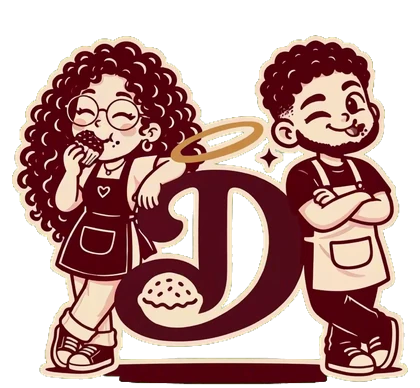
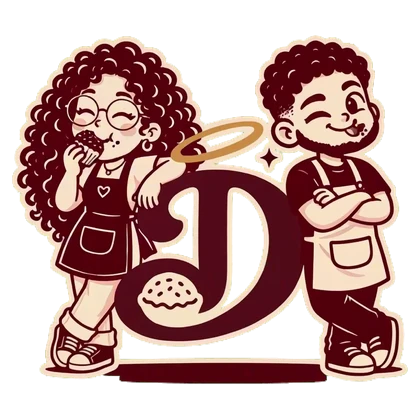
Hero menor, bordas limpas e fim da animação sem piscar
- Hero com no máximo 310 px (estava de ponta a ponta e grande no celular).
- Recorte do verde refeito: separa a cor do desenho da cor do fundo nas
  bordas e nunca deixa pixel transparente preto (eram os pontinhos escuros).
- A imagem parada fica por baixo, já decodificada, e só aparece no fim,
  antes de a animação sair: a troca não pisca mais.

diff --git a/index.html b/index.html
@@ -48,9 +48,11 @@
 
   /* ---------- HERO: Divi, D e Nô (toca uma vez a cada carregamento) ---------- */
   .hero{text-align:center}
-  /* palco de ponta a ponta no celular: a beira do vídeo coincide com a beira da tela */
-  .stage{position:relative;width:calc(100% + 32px);margin:0 -16px;aspect-ratio:420/388}
+  .stage{position:relative;width:82%;max-width:310px;margin:6px auto 0;aspect-ratio:420/388}
   .stage img{position:absolute;inset:0;width:100%;height:100%;object-fit:contain;pointer-events:none}
+  /* a imagem parada fica por baixo, já decodificada; no fim ela aparece antes de a animação sair (sem piscar) */
+  .stage .final{opacity:0}
+  .stage.end .final{opacity:1}
   .stage::after{content:"";position:absolute;left:14%;right:14%;bottom:1.5%;height:5%;border-radius:50%;background:radial-gradient(closest-side, rgba(59,29,22,.16), transparent);z-index:-1}
 
   /* ---------- Bem-vindos escrito pelo saco de confeitar ---------- */
@@ -185,9 +187,10 @@
     <section class="hero">
       <!-- Divi entra pela esquerda, o D se desenha, o Nô entra pela direita e os dois se escoram nele.
            WebP animado com transparência: toca uma vez por carregamento e para na pose final. -->
-      <div class="stage">
-        <img id="heroImg" width="420" height="388"
+      <div class="stage" id="stage">
+        <img class="final" id="heroFinal" src="img/hero-final.webp" width="420" height="388"
              alt="A Divi, mordendo um brigadeiro, e o Nô, de braços cruzados, escorados no D da Divinô">
+        <img id="heroImg" width="420" height="388" alt="" aria-hidden="true">
         <noscript><img src="img/hero-final.webp" width="420" height="388" alt=""></noscript>
       </div>
 
@@ -329,21 +332,23 @@
 
   // ---------- hero: toca uma vez a cada carregamento e fica parado na pose final ----------
   (() => {
-    const img = document.getElementById('heroImg');
-    const FINAL = 'img/hero-final.webp';
-    if (matchMedia('(prefers-reduced-motion: reduce)').matches) { img.src = FINAL; return; }
+    const stage = document.getElementById('stage'), img = document.getElementById('heroImg'), fin = document.getElementById('heroFinal');
+    const end = () => { stage.classList.add('end'); requestAnimationFrame(() => requestAnimationFrame(() => img.remove())); };
+    if (matchMedia('(prefers-reduced-motion: reduce)').matches) return end();
     let done = false;
     // internet lenta: em vez de esperar, mostra direto a pose final
-    const slow = setTimeout(() => { done = true; img.src = FINAL; }, 2500);
+    const slow = setTimeout(() => { done = true; end(); }, 2500);
     const anim = new Image();
     anim.onload = () => {
       if (done) return;
       clearTimeout(slow);
       img.src = anim.src;
-      // o WebP toca uma vez (3,6 s); depois fica a imagem parada, igual ao último quadro
-      setTimeout(() => { img.src = FINAL; }, 3900);
+      // o WebP toca uma vez (3,6 s) e para no último quadro; a imagem parada, igual a ele,
+      // só assume quando já está decodificada, por baixo, então a troca não pisca
+      const ready = fin.decode ? fin.decode().catch(() => {}) : Promise.resolve();
+      setTimeout(() => ready.then(end), 4200);
     };
-    anim.onerror = () => { clearTimeout(slow); img.src = FINAL; };
+    anim.onerror = () => { clearTimeout(slow); end(); };
     anim.src = 'img/hero-animacao.webp';
   })();
 

diff --git a/_fonte/chroma-key.py b/_fonte/chroma-key.py
@@ -1,21 +1,37 @@
+# Tira o fundo verde do vídeo do Magnific.
+# Nas bordas, separa a cor do desenho da cor do verde (unmix) em vez de só cortar o verde,
+# senão a mistura creme+verde vira pontinhos escuros. Pixel quase transparente recebe a cor
+# do vizinho opaco mais próximo (nunca preto), para o redimensionamento não puxar escuro.
 import sys, glob, numpy as np
-from PIL import Image
+from PIL import Image, ImageFilter
 src, dst = sys.argv[1], sys.argv[2]
 files = sorted(glob.glob(src+'/*.png'))
-def key(a):
-    a = a.astype(np.float32)
+K = np.array([6,244,4], np.float32)          # cor do fundo
+def key(img):
+    a = np.asarray(img, np.float32)
     r,g,b = a[...,0],a[...,1],a[...,2]
-    d = g - np.maximum(r,b)            # dominância do verde
-    alpha = 1 - np.clip((d-40)/(110-40),0,1)
-    # despill: limita o verde ao maior entre r e b
-    g2 = np.minimum(g, np.maximum(r,b)*1.02)
-    out = np.dstack([r,g2,b,alpha*255]).clip(0,255).astype(np.uint8)
-    return out
-frames=[key(np.array(Image.open(f).convert('RGB'))) for f in files]
-# caixa que contém o último quadro (e todos) com margem
-al = np.max(np.stack([f[...,3] for f in frames]),axis=0)
-ys,xs = np.where(al>20); m=8
-y0,y1,x0,x1 = max(ys.min()-m,0),min(ys.max()+m,al.shape[0]),max(xs.min()-m,0),min(xs.max()+m,al.shape[1])
-print('bbox',x0,y0,x1,y1)
-for i,f in enumerate(frames):
-    Image.fromarray(f[y0:y1,x0:x1]).save(f'{dst}/{i+1:04d}.png')
+    d = g - np.maximum(r,b)
+    al = 1 - np.clip((d-30)/(150-30),0,1)
+    al[al<0.06] = 0
+    # unmix: C = al*F + (1-al)*K  ->  F = (C-(1-al)K)/al
+    F = (a - (1-al)[...,None]*K) / np.maximum(al,0.25)[...,None]
+    F = np.clip(F,0,255)
+    # trava qualquer verde que sobrou
+    F[...,1] = np.minimum(F[...,1], np.maximum(F[...,0],F[...,2])*1.02)
+    # encolhe o alfa 1 px (some com a franja)
+    A = Image.fromarray((al*255).astype(np.uint8)).filter(ImageFilter.MinFilter(3))
+    A = np.asarray(A, np.float32)/255*0.5 + al*0.5
+    # cor dos pixels de borda/transparentes = cor do opaco mais próximo (dilatação)
+    solid = al > 0.9
+    rgb = Image.fromarray(np.where(solid[...,None], F, 0).astype(np.uint8))
+    mask = Image.fromarray((solid*255).astype(np.uint8))
+    fill, m = rgb, mask
+    for _ in range(6):
+        fill = Image.composite(fill, fill.filter(ImageFilter.MaxFilter(3)), m)
+        m = m.filter(ImageFilter.MaxFilter(3))
+    fill = np.asarray(fill, np.float32)
+    out = np.where(solid[...,None], F, np.where((al>0.5)[...,None], (F+fill)/2, fill))
+    return np.dstack([out, A*255]).clip(0,255).astype(np.uint8)
+for i,f in enumerate(files):
+    Image.fromarray(key(Image.open(f).convert('RGB'))).save(f'{dst}/{i+1:04d}.png')
+print(len(files),'quadros')

diff --git a/_fonte/webp-animado.py b/_fonte/webp-animado.py
@@ -8,7 +8,7 @@ arrs=[]
 for f in files:
     im=Image.open(f).convert('RGBA'); h=round(im.height*w/im.width)
     a=np.array(im.resize((w,h),Image.LANCZOS)).astype(np.int16)
-    a[a[...,3]<16]=0
+    a[...,3][a[...,3]<16]=0   # só o alfa: a cor fica, para a compressão não puxar preto
     arrs.append(a)
 # degradê nas laterais enquanto a Divi e o Nô entram (some quando a pose fecha)
 # largura em fração da imagem: larga na entrada, estreita no fim, sem tocar a pose final (a 22/768 da borda)
@@ -34,6 +34,6 @@ for i in range(1,len(arrs)):
     arrs[i][d]=arrs[i-1][d]
 fr=[Image.fromarray(a.clip(0,255).astype(np.uint8)) for a in arrs]
 dur=[round(1000*step/24)]*len(fr)
-fr[0].save(out,save_all=True,append_images=fr[1:],duration=dur,loop=1,quality=q,method=4,minimize_size=True,allow_mixed=True)
-fr[-1].save(out.replace('.webp','-final.webp'),quality=90,method=6)
+fr[0].save(out,save_all=True,append_images=fr[1:],duration=dur,loop=1,quality=q,method=4,minimize_size=True,allow_mixed=True,exact=True)
+fr[-1].save(out.replace(".webp","-final.webp"),quality=90,method=6,exact=True)
 print(out,len(fr),os.path.getsize(out)//1024,'KB')
